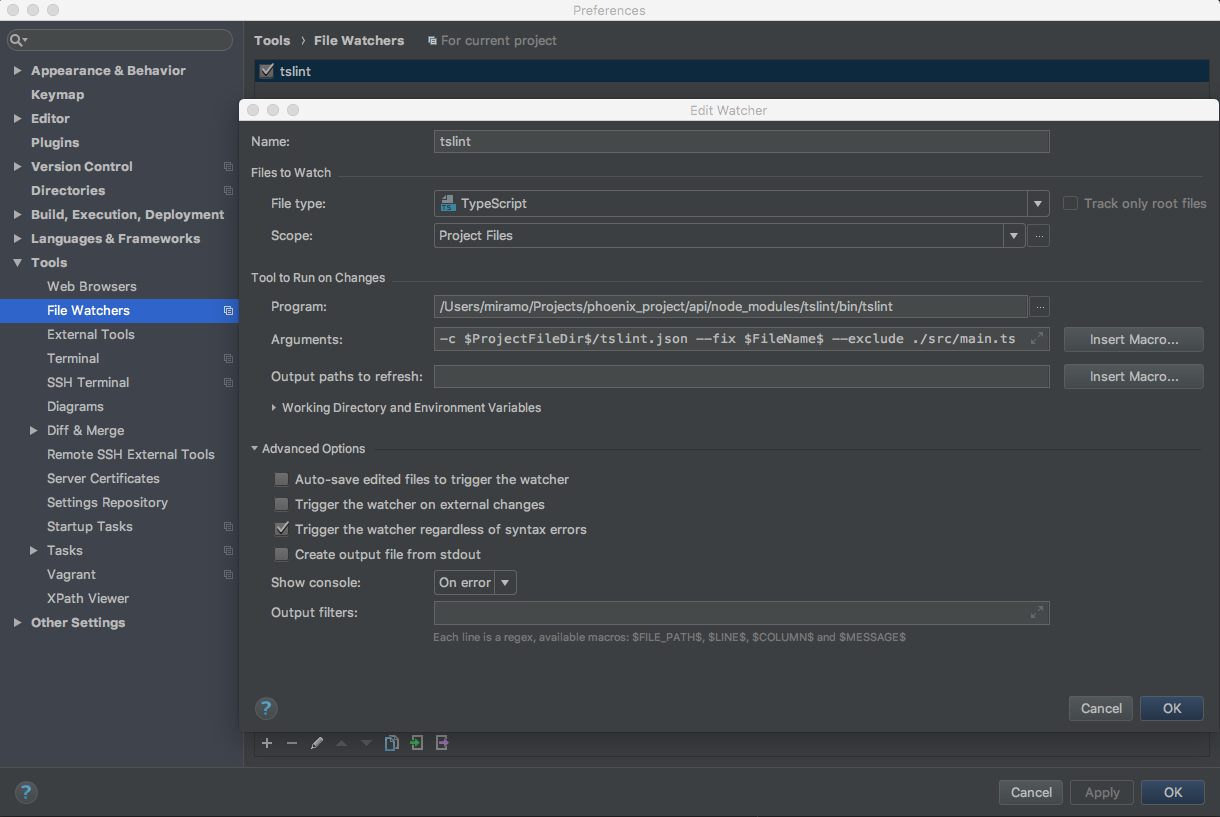
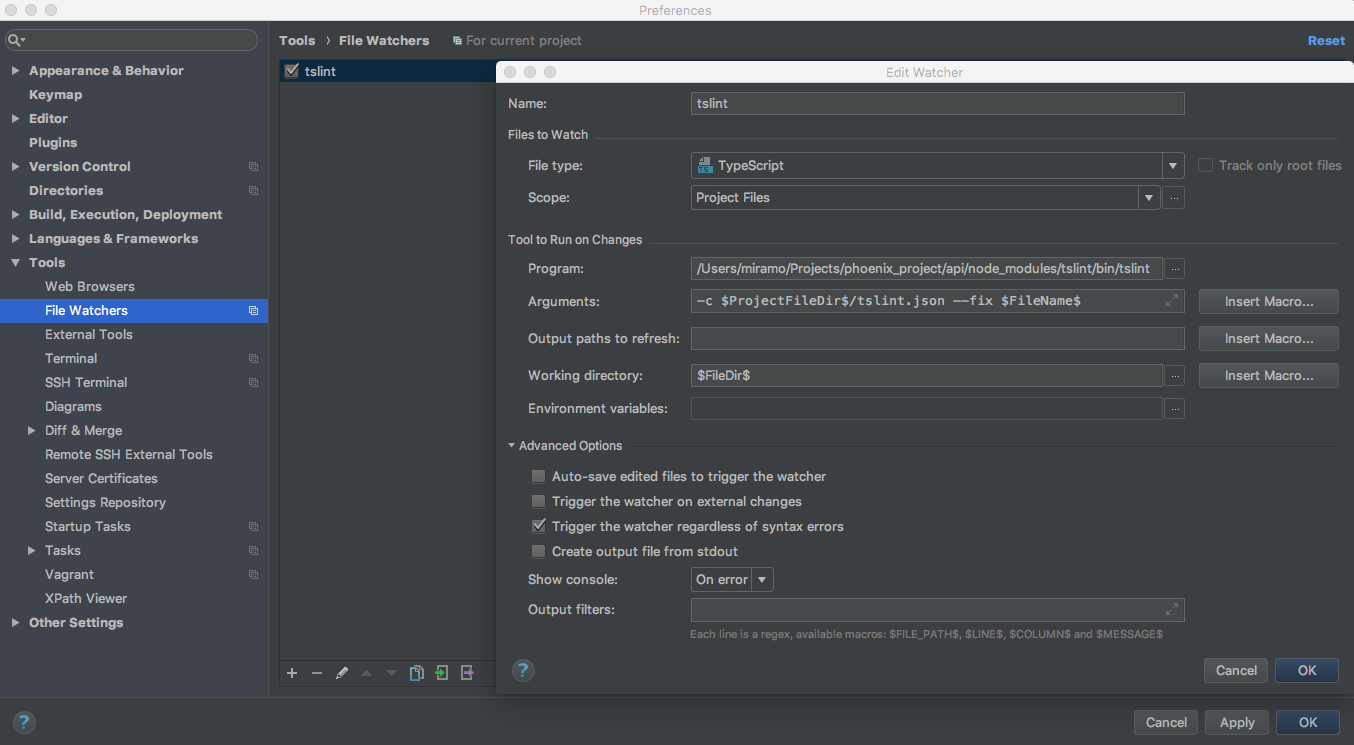
Add directory to have ide configurations/tips

diff --git a/ide/README.md b/ide/README.md
@@ -7,10 +7,20 @@
   1. [WebStorm](#webstorm)
 
 ## WebStorm
+  > **Note**: This assumes your are currently use [WebStorm](https://www.jetbrains.com/webstorm/) IDE.
 
   <a name="webstorm--file-watcher"></a><a name="1.1"></a>
   - [1.1](#webstorm--file-watcher) **File watcher**: Allow to the IDE to reformat code depends on `tslint.json` after modifications on file.
     > **Note**: This configuration assumes your are on TypeScript language and use [TSLint](https://palantir.github.io/tslint/) linter.
+   
+    Go to `Tools->File Watchers`, add a new one and as the picture below, fill the following fields:
+    ```text
+      File Type = TypeScript
+      Scope = Project Files
+      Program = <binary of tslint package within node_modules>
+      Arguments = -c $ProjectFileDir$/tslint.json --fix $FileName$
+      Working directory = $FileDir$
+    ```
     ![Autolint](./assets/autolint.png)
   
 
